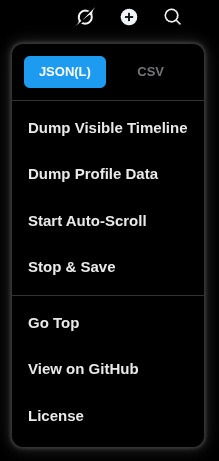
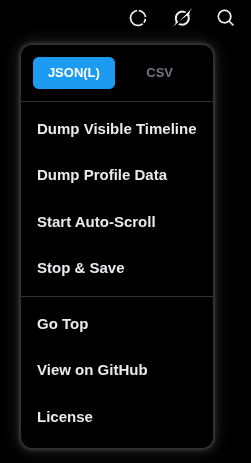
docs: 文档补充说明, 更新预览图

diff --git a/README.md b/README.md
@@ -1,8 +1,12 @@
-# X (Twitter) Timeline Archiver
+# X (Twitter) Timeline & Thread Archiver
 
 <img src="https://abs.twimg.com/favicons/twitter.3.ico" align="right" alt="x-logo" />
 
-极简的 X (Twitter) 时间线归档工具。
+极简的 X (Twitter) 时间线与帖子归档助手。
+
+[![MIT License](https://img.shields.io/badge/License-MIT-pink.svg?style=flat-square)](./LICENSE)
+![GitHub repo size](https://img.shields.io/github/repo-size/miniyu157/x-timeline-archiver?style=flat-square&color=8e44ad&label=repo%20size)
+![GitHub stars](https://img.shields.io/github/stars/miniyu157/x-timeline-archiver?style=flat-square&color=f1c40f)
 
 ---
 
@@ -14,17 +18,66 @@
   <img src="https://raw.githubusercontent.com/miniyu157/x-timeline-archiver/main/assets/light.png" align="right" alt="preview" />
 </picture>
 
-- 极简、纯粹的逻辑与交互，代码行数 300 左右（LOC）；
-- 针对于 X 页面的虚拟节点，提供滚动功能便捷获取时间线；
-- 输出格式为 JSON/(L) 或 CSV，一行一个帖子。  
-基础数据包含点赞、转贴、收藏、查看、书签、URL，并区分转贴、引用，  
-其中推文串不进行特殊处理，引用帖子无法获取 URL；
-- 提供实用功能，例如获取账户信息、返回顶部等。
+- 极简、纯粹的逻辑与交互，代码行数 400 左右（LOC）；
+- 针对于 X 页面的虚拟节点，提供自动滚动功能便捷获取 **时间线 (Timeline)** 与 **帖子树 (Thread)**；
+- 输出格式为 JSON(L) 或 CSV，
+基础数据包含各项互动指标（点赞、转贴、查看等）、帖子上下文、图文内容，并自动解析引用帖子；  
+- 提供实用功能，例如导出账户信息、中途停止并保存、返回顶部等。
 
 **交互:**
 
-- 融入 X 网页 UI，支持自动深色切换。
+- 融入 X 网页 UI，支持自动深色切换；
+- 菜单采用上下文感知，根据所处视图自动展示或隐藏对应功能。
 
 **入口:**
 
-- 账号页面顶部 Grok 附近的按钮。
+- 时间线/主页： 页面中栏顶部区域（搜索/Grok 按钮附近）；
+- 帖子详情： 每个帖子卡片右上角的 “更多” 按钮附近。
+
+**说明:**
+
+- 时间线上裸露在外的回复 (推文串)，或者帖子详情中回复下裸露的子回复，会自动跳过解析以符合数据直觉；
+- 原本想要获取并解析完整的推文树，但似乎非常困难且容易造成账号枫红。所以目前仍需手动点击进入回复详情页，来查看或归档特定的子回复。
+
+> [!NOTE]
+> 时间线 (Timeline) 的 JSONL 与帖子详情 (Thread) 的 JSON, 内部单条推文的数据模型是完全等价的  
+> 区别在于外层包装, JSONL 为逐行独立对象, JSON 为标准的数组结构
+
+数据结构示例 (JSON):
+
+```json
+{
+  "id": "1890000000000000000",
+  "url": "https://x.com/username/status/1890000000000000000",
+  "context": "你已转贴", 
+  "time": "2026-03-18T12:00:00.000Z",
+  "author": {
+    "name": "",
+    "handle": "",
+    "avatar": ""
+  },
+  "content": {
+    "text": "",
+    "media": []
+  },
+  "quote": {
+    "author": {
+      "name": "",
+      "handle": "",
+      "avatar": ""
+    },
+    "time": "",
+    "content": {
+      "text": "",
+      "media": []
+    }
+  },
+  "metrics": {
+    "replies": 0,
+    "retweets": 0,
+    "likes": 0,
+    "bookmarks": 0,
+    "views": 0
+  }
+}
+```
